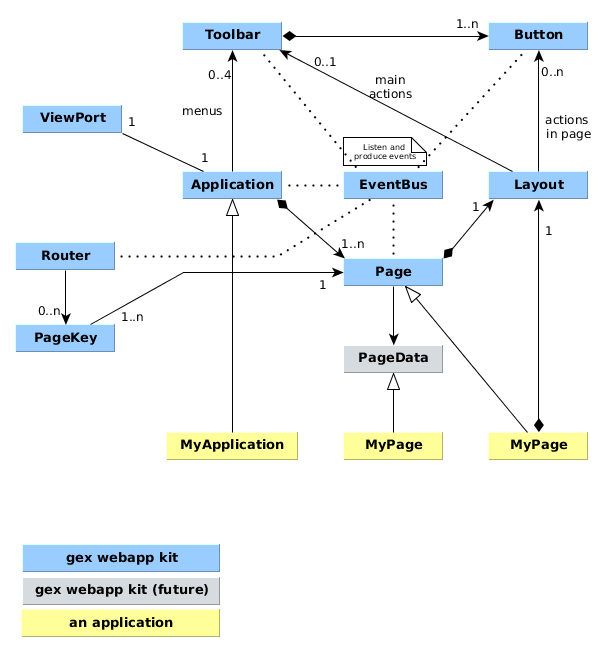
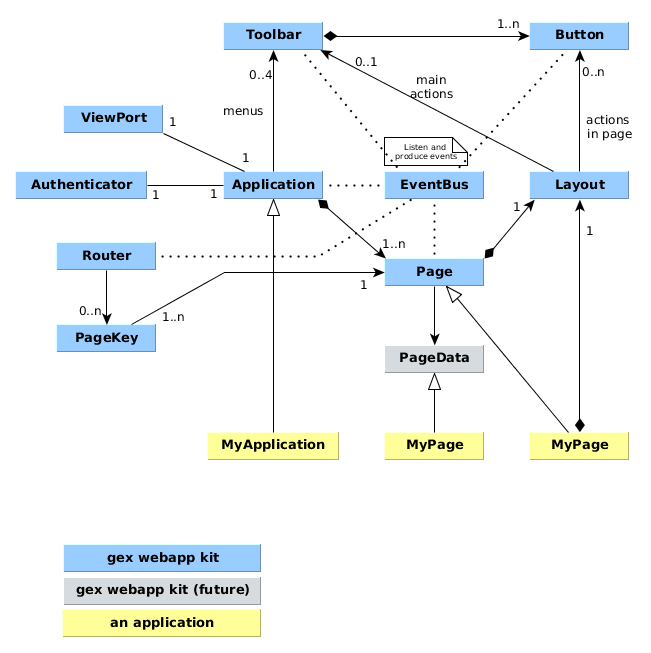
google oauth by events

diff --git a/lib/auth.dart b/lib/auth.dart
@@ -1,0 +1,161 @@
+// Copyright (c) 2015, Gérald Reinhart. All rights reserved. Use of this source code
+// is governed by a BSD-style license that can be found in the LICENSE file.
+part of gex_webapp_kit_client;
+
+class User {
+  String _userId ;
+  String _email ;
+  String _displayName ;
+  String _familyName ;
+  String _givenName ;
+  String _imageUrl ;
+  
+  User({String userId, String email, String displayName, String givenName, String familyName,  String imageUrl}){
+     assert(userId != null);
+     _userId = userId;
+     _email = email ;
+     _displayName = displayName;
+     _familyName = familyName ;
+     _givenName = givenName;
+     _imageUrl = imageUrl;
+  }
+  
+  String get userId => _userId ;
+  String get email => _email ;
+  String get displayName => _displayName ;
+  String get familyName => _familyName ;
+  String get givenName => _givenName ;
+  String get imageUrl => _imageUrl ;
+  
+  @override
+  String toString() => "User: userId:${_userId}, email:${_email}, displayName:${_displayName}, givenName:${_givenName}, familyName:${_familyName}, imageUrl:${_imageUrl}";
+  
+  User clone() {
+    return new User(userId:_userId, email:_email,displayName:_displayName,familyName:_familyName,givenName:_givenName, imageUrl:_imageUrl);
+  }
+}
+
+class CallUserAuthEvent extends ApplicationEvent {
+
+  CallUserAuthEvent(Object sender) : super(sender: sender, name: "CallUserAuthEvent") {
+    _type = "CallUserAuthEvent";
+  }
+
+
+  CallUserAuthEvent clone() {
+    return new CallUserAuthEvent(this.sender);
+  }
+
+  @override
+  String toString() {
+    return "CallUserAuthEvent";
+  }
+}
+
+class UserAuthEvent extends ApplicationEvent {
+  User _user;
+
+  UserAuthEvent(Object sender, User user) : super(sender: sender, name: "UserAuthEvent") {
+    _user = user ;
+    List<Parameter> parameters =  new List<Parameter> ();
+    parameters.add( new Parameter("userId", _user.userId)  ) ;
+    _params = new Parameters( parameters ) ;
+    _type = "UserAuthEvent";
+  }
+
+  User get user => _user.clone();
+
+  UserAuthEvent clone() {
+    return new UserAuthEvent(this.sender, this.user);
+  }
+
+  @override
+  String toString() {
+    return "UserAuthEvent: ${_user}";
+  }
+}
+
+class UserAuthFailEvent extends ApplicationEvent {
+  String _errorMessage ;
+  UserAuthFailEvent(Object sender, String errorMessage) : super(sender: sender, name: "UserAuthFailEvent") {
+    _errorMessage = errorMessage;
+    _type = "UserAuthFailEvent";
+  }
+
+  UserAuthFailEvent clone() {
+    return new UserAuthFailEvent(this.sender,_errorMessage);
+  }
+
+  @override
+  String toString() {
+    return "UserAuthFailEvent error: ${_errorMessage}";
+  }
+}
+
+
+abstract class Authenticator extends Object with ApplicationEventPassenger{
+  
+  void login();
+}
+
+class GoogleAuthenticator extends Authenticator {
+
+  String _clientId ;
+  GoogleOAuth2 _auth ;
+  
+  GoogleAuthenticator(this._clientId){
+    _auth  = new GoogleOAuth2(_clientId , ["openid","email"]);
+  }
+  
+  
+  @override
+  void recieveApplicationEvent(ApplicationEvent event) {
+    if (event is CallUserAuthEvent) {
+      login();
+    }
+  }
+  
+  @override
+  void login(){
+    _auth.login(immediate: true, onlyLoadToken: false)
+      .then(_oauthReady)
+      .catchError((e) {
+          fireApplicationEvent(  new UserAuthFailEvent(this,e.toString())   );
+     });
+  }
+  
+  Future _oauthReady(Token token){
+   
+      final url = "https://www.googleapis.com/plus/v1/people/${token.userId}";
+
+      var headers = getAuthorizationHeaders(token.type, token.data);
+
+      return HttpRequest.request(url, requestHeaders: headers)
+        .then((HttpRequest request) {
+          if (request.status == 200) {
+            var data = JSON.decode(request.responseText);
+            
+            String displayName = data["displayName"] ;
+            String familyName = data["name"] == null ? null : data["name"]["familyName"] ;
+            String givenName = data["name"] == null ? null : data["name"]["givenName"] ;
+            String imageUrl = data["image"] == null ? null : data["image"]["url"] ;
+            
+            User user = new User(userId: token.userId, email: token.email, displayName: displayName,givenName:givenName ,familyName:familyName ,imageUrl: imageUrl) ;
+            
+            fireApplicationEvent(  new UserAuthEvent( this, user )   );
+            
+          } else {
+            fireApplicationEvent(  new UserAuthFailEvent(this, request.toString())   );
+          }
+        });
+    
+  }
+
+  @override
+  String toString() {
+    return "GoogleAuthenticator: clientId:${_clientId}";
+  }
+}
+
+
+

diff --git a/web/show_room.dart b/web/show_room.dart
@@ -18,17 +18,26 @@ import 'pages/buttons.dart';
 void main() {
   initPolymer().run(() {
     Polymer.onReady.then((_) {
+      
+      
+      Logger.root.level = Level.ALL;
+      Logger.root.onRecord.listen((LogRecord rec) {
+        print('${rec.level.name}: ${rec.time}: ${rec.message}');
+      });
+      
       ShowRoomApplication application = querySelector("#application") as ShowRoomApplication;
+      
       ApplicationEventBus applicationEventBus = new ApplicationEventBus();
       PageKeyUrlConverter pageKeyUrlConverter = new PageKeyUrlConverter();
-      ApplicationEventLogger applicationEventLogger = new ApplicationEventLogger();
-
       Router router = new Router(pageKeyUrlConverter);
-
+      ApplicationEventLogger applicationEventLogger = new ApplicationEventLogger();
+      Authenticator authenticator = new GoogleAuthenticator("765376678220-21161f3h7quqp1l57mh96sopdjndhntl.apps.googleusercontent.com");
+      
+      authenticator.setApplicationEventBus(applicationEventBus);
       router.setApplicationEventBus(applicationEventBus);
       application.setApplicationEventBus(applicationEventBus);
       applicationEventLogger.setApplicationEventBus(applicationEventBus);
-
+      
       router.init();
       application.init();
     });

diff --git a/lib/bus.dart b/lib/bus.dart
@@ -111,7 +111,7 @@ class ViewPortChangeEvent extends ApplicationEvent {
   ViewPortModel get viewPortModel => _viewPortModel.clone();
 
   ViewPortChangeEvent clone() {
-    return new ViewPortChangeEvent(this.sender, this._viewPortModel.clone());
+    return new ViewPortChangeEvent(this.sender, this.viewPortModel);
   }
 
   @override
@@ -119,6 +119,12 @@ class ViewPortChangeEvent extends ApplicationEvent {
     return "ViewPortChangeEvent: ${_viewPortModel}";
   }
 }
+
+
+
+
+
+
 
 class ApplicationEventBus {
   StreamController<ApplicationEvent> _applicationEventStream =
@@ -165,6 +171,9 @@ class ApplicationEventCallBackHolder {
 class ApplicationEventLogger extends Object with ApplicationEventPassenger {
   final Logger log = new Logger('ApplicationEventLogger');
 
+
+  
+  
   @override
   void recieveApplicationEvent(ApplicationEvent event) {
     log.info(event.toString());

diff --git a/lib/elements/page.dart b/lib/elements/page.dart
@@ -6,10 +6,12 @@ import 'package:logging/logging.dart';
 
 import 'package:gex_webapp_kit_client/webapp_kit_client.dart';
 import 'package:gex_webapp_kit_client/elements/layout.dart';
+import 'package:gex_webapp_kit_client/elements/application.dart';
 
 abstract class Page extends Positionable with Showable, ApplicationEventPassenger {
   final Logger log = new Logger('Page');
 
+  Application _application ; 
   Layout _layout;
   PageModel _model;
 
@@ -24,6 +26,11 @@ abstract class Page extends Positionable with Showable, ApplicationEventPassenge
   PageModel get model => _model.clone();
   String get name => _model.name;
 
+  set application ( Application value){
+    _application = value;
+  }
+  get application => _application;
+  
   void _setAttributes() {
     _layout = $["layout"] as Layout;
   }

diff --git a/web/pages/login.dart b/web/pages/login.dart
@@ -4,6 +4,8 @@ library gex_webapp_kit_client.show_room.login;
 
 import 'package:logging/logging.dart';
 import 'package:polymer/polymer.dart';
+
+
 import 'package:gex_webapp_kit_client/webapp_kit_client.dart';
 import 'package:gex_webapp_kit_client/elements/layout.dart';
 import 'package:gex_webapp_kit_client/elements/page.dart';
@@ -23,7 +25,7 @@ class PageLogin extends Page with Showable {
     super.ready();
     _setAttributes();
   }
-
+  
   void _setAttributes() {
     layout = $["layout"] as Layout;
 
@@ -44,9 +46,10 @@ class PageLogin extends Page with Showable {
   }
 
   login(Parameters params) {
-    // TODO Login
+    fireApplicationEvent( new CallUserAuthEvent(this));
   }
-
+  
+  
   cancel(Parameters params) {
     // TODO cancel
   }

diff --git a/lib/webapp_kit_client.dart b/lib/webapp_kit_client.dart
@@ -2,13 +2,16 @@
 // is governed by a BSD-style license that can be found in the LICENSE file.
 library gex_webapp_kit_client;
 
-import 'package:polymer/polymer.dart';
 import "dart:html";
-import 'package:logging/logging.dart';
 import 'dart:async';
 import 'dart:math';
+import "dart:convert";
+import 'package:polymer/polymer.dart';
+import 'package:logging/logging.dart';
+import "package:google_oauth2_client/google_oauth2_browser.dart";
 
 part 'abilities.dart';
+part 'auth.dart';
 part 'beans.dart';
 part 'bus.dart';
 part 'colors.dart';

diff --git a/lib/elements/application.dart b/lib/elements/application.dart
@@ -203,6 +203,7 @@ class Application extends Positionable with Showable, ApplicationEventPassenger 
   void addPage(Page page) {
     _pagesContainer.append(page);
     _pages.add(page);
+    page.application = this;
     page.hide();
     page.moveTo(position);
   }

diff --git a/lib/beans.dart b/lib/beans.dart
@@ -222,3 +222,6 @@ class Image {
     return clone;
   }
 }
+
+
+
